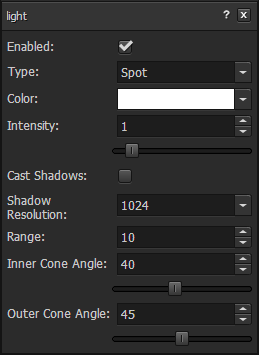
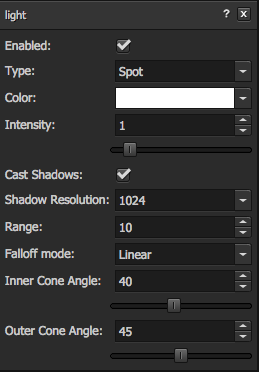
Updated docs for lights

diff --git a/content/user-manual/packs/entities/components/light.md b/content/user-manual/packs/entities/components/light.md
@@ -26,7 +26,8 @@ The 'light' component attaches a dynamic light source to the Entity. The 'Type' 
     <tr><td>Inner Cone Angle</td><td>Spot only. The angle from the spotlight's direction at which light begins to fall from its maximum.</td></tr>
     <tr><td>Outer Cone Angle</td><td>Spot only. The angle from the spotlight's direction at which light falls to zero.</td></tr>
     <tr><td>Cast Shadows</td><td>Directional and Spot only. If checked, the light will cause shadow casting models to cast shadows.</td></tr>
-    <tr><td>Shadow Resolution</td><td>Directional and spot only. The resolution of the shadowmap generated by this light source. This property is only used when Cast Shadows is checked. A high value will result in a more accurate shadow but will be at the cost of performance.</td></tr>
+    <tr><td>Shadow Resolution</td><td>The resolution of the shadowmap generated by this light source. This property is only used when Cast Shadows is checked. A high value will result in a more accurate shadow but will be at the cost of performance.</td></tr>
+    <tr><td>Falloff Mode</td><td>Point and spot only. Controls the rate at which a light attentuates from its position.</td></tr>
 </table>
 
 ## Scripting Interface
